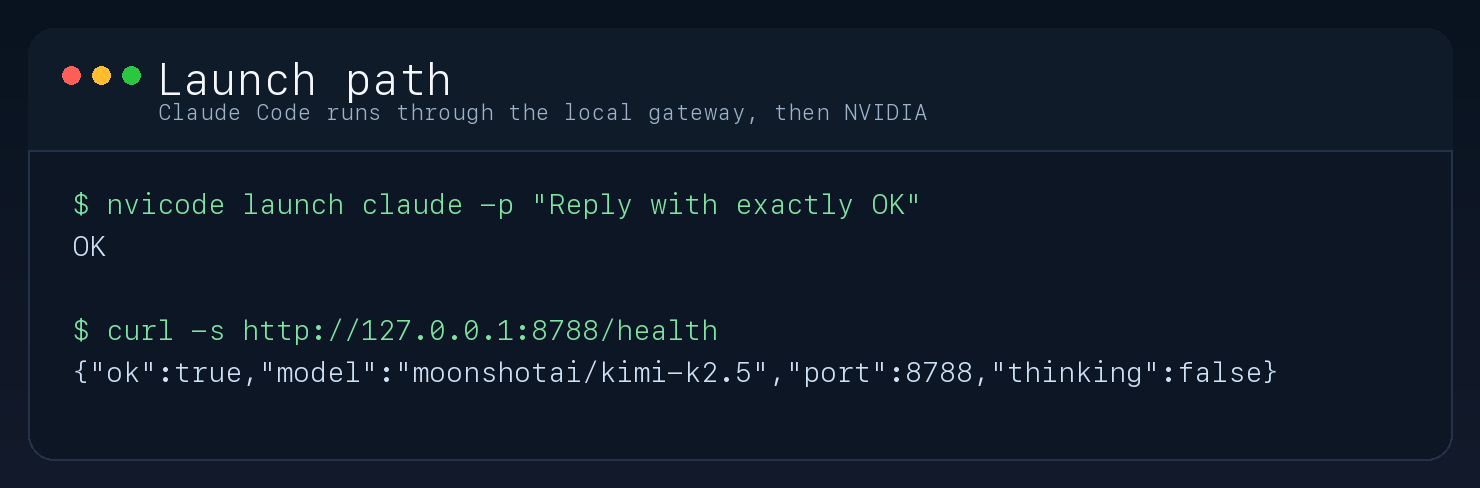
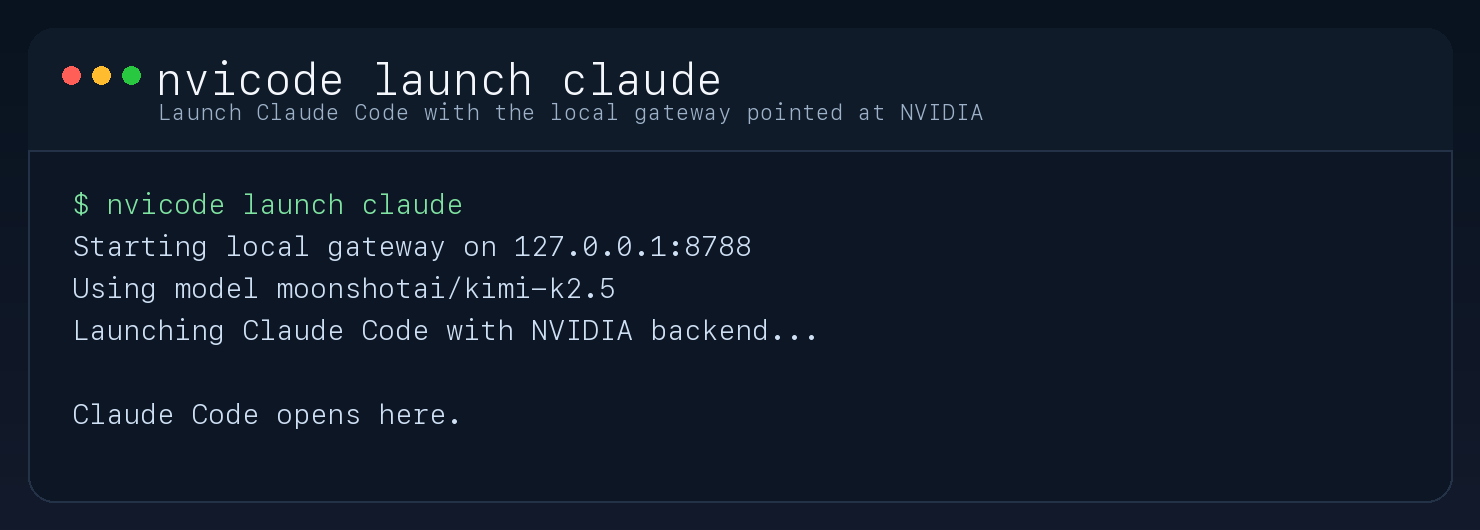
Limit README screenshots to core setup flow

diff --git a/scripts/render_readme_screenshots.py b/scripts/render_readme_screenshots.py
@@ -126,11 +126,23 @@ def render_terminal_card(
 
 def main() -> None:
     render_terminal_card(
-        title="Model catalog",
-        subtitle="Pick a supported coding model before launching Claude Code",
-        filename="models.png",
+        title="nvicode auth",
+        subtitle="Save a NVIDIA API key once, then reuse it for future launches",
+        filename="auth.png",
         body=(
-            "$ nvicode models\n"
+            "$ nvicode auth\n"
+            "Enter NVIDIA API key: nvapi-************************************\n"
+            "Saved API key to ~/.local/share/nvicode/config.json\n"
+            "Ready to launch Claude Code through NVIDIA."
+        ),
+    )
+
+    render_terminal_card(
+        title="nvicode select model",
+        subtitle="Choose the backend model Claude Code should use",
+        filename="select-model.png",
+        body=(
+            "$ nvicode select model\n"
             "1. Kimi K2.5\n"
             "   moonshotai/kimi-k2.5\n"
             "   Strong coding and agentic workflow model.\n"
@@ -148,35 +160,23 @@ def main() -> None:
             "   Compact coding-specialized model.\n"
             "6. Qwen2.5 Coder 32B\n"
             "   qwen/qwen2.5-coder-32b-instruct\n"
-            "   Smaller coding-focused Qwen model."
+            "   Smaller coding-focused Qwen model.\n"
+            "Enter choice number: 1\n"
+            "Saved model moonshotai/kimi-k2.5"
         ),
     )
 
     render_terminal_card(
-        title="Saved config",
-        subtitle="nvicode stores model and proxy settings locally",
-        filename="config.png",
-        body=(
-            "$ nvicode config\n"
-            "Config file: ~/.local/share/nvicode/config.json\n"
-            "State dir:   ~/.local/state/nvicode\n"
-            "Model:       moonshotai/kimi-k2.5\n"
-            "Proxy port:  8788\n"
-            "Thinking:    off\n"
-            "API key:     saved"
-        ),
-    )
-
-    render_terminal_card(
-        title="Launch path",
-        subtitle="Claude Code runs through the local gateway, then NVIDIA",
+        title="nvicode launch claude",
+        subtitle="Launch Claude Code with the local gateway pointed at NVIDIA",
         filename="launch.png",
         body=(
-            '$ nvicode launch claude -p "Reply with exactly OK"\n'
-            "OK\n"
+            "$ nvicode launch claude\n"
+            "Starting local gateway on 127.0.0.1:8788\n"
+            "Using model moonshotai/kimi-k2.5\n"
+            "Launching Claude Code with NVIDIA backend...\n"
             "\n"
-            "$ curl -s http://127.0.0.1:8788/health\n"
-            '{"ok":true,"model":"moonshotai/kimi-k2.5","port":8788,"thinking":false}'
+            "Claude Code opens here."
         ),
     )
 

diff --git a/README.md b/README.md
@@ -30,17 +30,17 @@ nvicode launch claude
 
 ## Screenshots
 
-### Browse models
+### Save your API key
 
-![Model catalog](https://raw.githubusercontent.com/dineshpotla/nvicode/main/assets/screenshots/models.png)
+![nvicode auth](https://raw.githubusercontent.com/dineshpotla/nvicode/main/assets/screenshots/auth.png)
 
-### Check saved settings
+### Choose a model
 
-![Saved config](https://raw.githubusercontent.com/dineshpotla/nvicode/main/assets/screenshots/config.png)
+![nvicode select model](https://raw.githubusercontent.com/dineshpotla/nvicode/main/assets/screenshots/select-model.png)
 
-### Verify the launch path
+### Launch Claude Code through NVIDIA
 
-![Launch path](https://raw.githubusercontent.com/dineshpotla/nvicode/main/assets/screenshots/launch.png)
+![nvicode launch claude](https://raw.githubusercontent.com/dineshpotla/nvicode/main/assets/screenshots/launch.png)
 
 ## Commands
 
